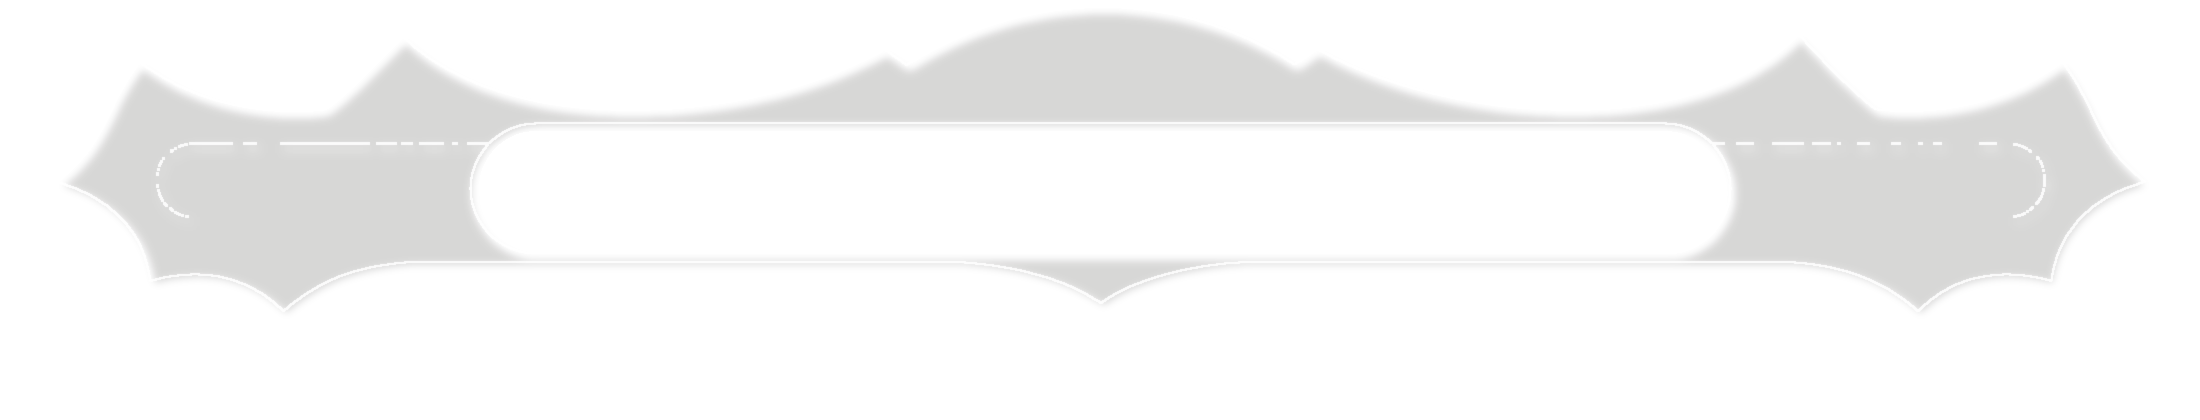
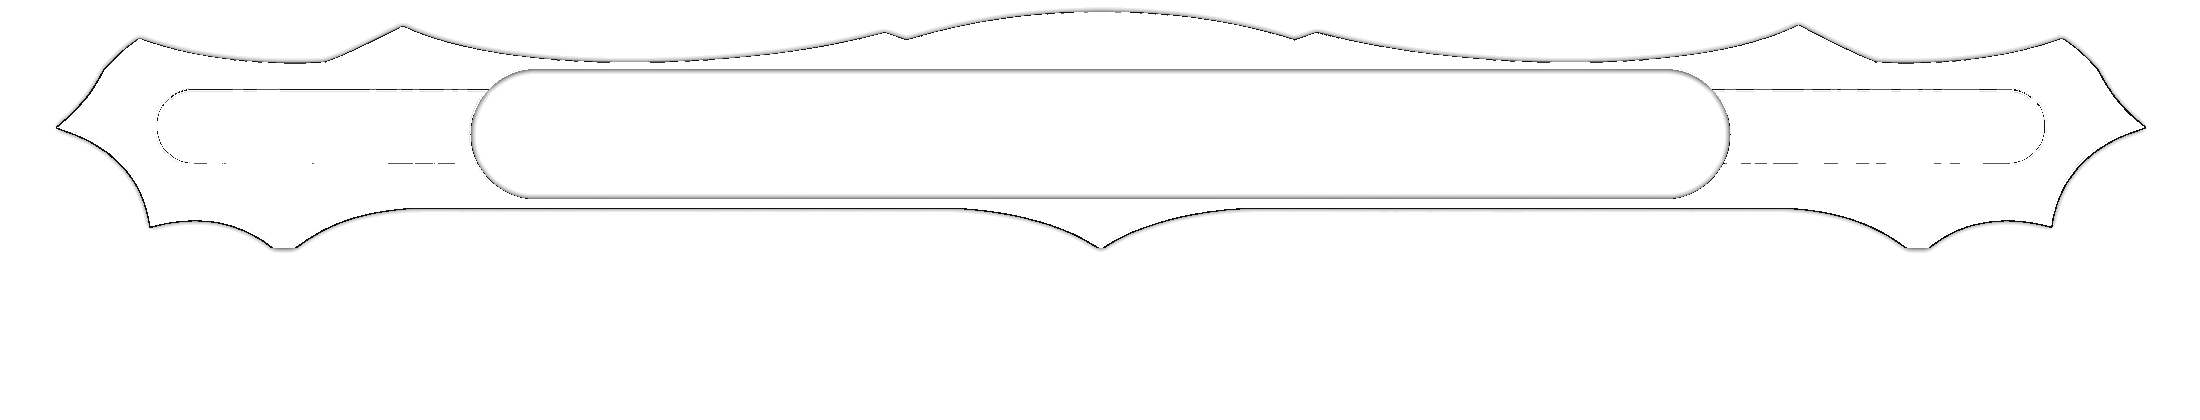
Fix crown seating, multiply tint, and shadow visibility.
Map the crown hole to the art-aligned nameplate with independent X/Y
scale, rebuild fills as near-white luminance maps so land/custom tints
actually recolor, and strengthen the stroke/drop shadow overlay.

diff --git a/src/authority/crownLayoutAuthority.ts b/src/authority/crownLayoutAuthority.ts
@@ -3,8 +3,8 @@
  * Crown PNGs sit behind the raised name plate (Showcase-style) and over art.
  *
  * Assets are authored so a transparent nameplate slot (~9.7:1) maps onto the
- * Modern outer plate 1260×130 (see CROWN_ASSET_*). Placement scales/positions
- * by that slot — never by the full canvas — so the plate sits in the hole.
+ * drawn nameplate outer (art-aligned when applicable). Placement scales X/Y
+ * independently so the hole matches the plate in both axes.
  */
 
 import { BEVEL_INSET, getStandardLayoutGeometry, type CardLayoutMode } from './geometryAuthority'
@@ -14,6 +14,16 @@ import {
   layoutRegionToStageRect,
 } from './layoutRegistry'
 import type { LayoutId } from './layoutTaxonomy'
+import { buildModernDummyStageRects } from './modernDummyLayoutAuthority'
+import {
+  type NameplateBoxShape,
+  resolveEffectiveNameplateShape,
+} from './nameplateShapeAuthority'
+import { resolveArtAlignedPlateOuterRect } from './plateArtAlignmentAuthority'
+import {
+  getPlaneswalkerModernV2ArtOuterRect,
+  PW_MODERN_V2_PLATE_RADIUS_MULTIPLIER,
+} from './planeswalkerModernV2LayoutAuthority'
 import { shouldShowCrownArmorSelectors } from './progressiveDisclosureAuthority'
 
 /** Authored crown canvas (Batch 1 remaster for Modern). */
@@ -22,9 +32,9 @@ export const CROWN_ASSET_CANVAS_H = 420
 
 /**
  * Transparent nameplate hole inside the crown canvas.
- * Authored ~9.7:1 to match Modern outer plate 1260×130 (width-lock placement).
+ * Authored ~9.7:1; runtime non-uniform scale maps it onto the drawn plate.
  */
-export const CROWN_ASSET_SLOT = { x: 471, y: 123, w: 1259, h: 130 } as const
+export const CROWN_ASSET_SLOT = { x: 471, y: 69, w: 1259, h: 130 } as const
 
 /** Near-white threshold for edge flood-fill knockout (ChatGPT assets ship on opaque white). */
 export const CROWN_WHITE_KEY_THRESHOLD = 245
@@ -56,10 +66,14 @@ function plateOuterFromInner(inner: { x: number; y: number; width: number; heigh
   }
 }
 
-/** Same outer nameplate rect FrameLayer uses for Modern / Borderless / Modern V2. */
+/**
+ * Drawn nameplate outer the crown hole must match — same art-aligned box as NamePlateLayer.
+ */
 export function resolveCrownNamePlateOuter(input: {
   layout: LayoutId
   currentLayout?: CardLayoutMode
+  bezierPlateEnabled?: boolean
+  nameBarShape?: NameplateBoxShape
 }): CrownStageRect | null {
   const caps = getActiveLayoutCapabilitiesFromState({
     currentLayout: input.currentLayout,
@@ -71,18 +85,58 @@ export function resolveCrownNamePlateOuter(input: {
     currentLayout: input.currentLayout,
     cardData: { layout: input.layout },
   })
+  const g = getStandardLayoutGeometry()
 
-  if (caps.supportsModernDummyLayout || caps.useLandFullArtManaCircle) {
-    return plateOuterFromInner(layoutRegionToStageRect(regions.nameBar))
+  let base: CrownStageRect
+  if (caps.supportsModernDummyLayout || caps.useLandFullArtManaCircle || caps.supportsSagaClassChrome) {
+    base = plateOuterFromInner(layoutRegionToStageRect(regions.nameBar))
+  } else {
+    base = { x: g.nameX, y: g.nameY, w: g.nameW, h: g.nameH }
   }
 
-  const g = getStandardLayoutGeometry()
-  return { x: g.nameX, y: g.nameY, w: g.nameW, h: g.nameH }
+  // Land full-art mana circle keeps contract outer (no art-column end caps).
+  if (caps.useLandFullArtManaCircle) return base
+
+  let artAperture: { x: number; width: number } | null = null
+  if (caps.supportsPlaneswalkerModernV2Layout) {
+    const art = getPlaneswalkerModernV2ArtOuterRect()
+    artAperture = { x: art.x, width: art.width }
+  } else if (caps.supportsSagaClassChrome) {
+    const nameInner = layoutRegionToStageRect(regions.nameBar)
+    artAperture = { x: nameInner.x, width: nameInner.width }
+  } else if (caps.supportsModernDummyLayout) {
+    const art = buildModernDummyStageRects().art
+    artAperture = {
+      x: art.x - BEVEL_INSET,
+      width: art.width + 2 * BEVEL_INSET,
+    }
+  } else {
+    artAperture = { x: g.artX, width: g.artW }
+  }
+
+  if (!artAperture) return base
+
+  const plateBarRadius = caps.supportsPlaneswalkerModernV2Layout
+    ? Math.round(g.barRadius * PW_MODERN_V2_PLATE_RADIUS_MULTIPLIER)
+    : g.barRadius
+  const shape = resolveEffectiveNameplateShape(
+    input.bezierPlateEnabled !== false,
+    input.nameBarShape ?? 'reverseBezierPlate',
+  )
+  const aligned = resolveArtAlignedPlateOuterRect({
+    artX: artAperture.x,
+    artW: artAperture.width,
+    plateY: base.y,
+    plateH: base.h,
+    shape,
+    barRadius: plateBarRadius,
+  })
+  return { x: aligned.x, y: aligned.y, w: aligned.width, h: aligned.height }
 }
 
 /**
  * Map crown image → stage so `slot` (in image px) lands exactly on `plate`.
- * Uniform scale from the tighter of width/height so the hole never undersizes the plate.
+ * Independent X/Y scale so art-aligned plates (wider than 1260) still fill the hole.
  */
 export function resolveCrownDrawRect(
   plate: CrownStageRect,
@@ -93,17 +147,14 @@ export function resolveCrownDrawRect(
   const nw = Math.max(1, naturalWidth)
   const nh = Math.max(1, naturalHeight)
   const sw = Math.max(1, slot.w)
-  // Prefer width lock (name length / plate width); allow slight vertical overshoot of slot vs plate.
-  const scale = plate.w / sw
-  const w = nw * scale
-  const h = nh * scale
-  const slotOnStageX = slot.x * scale
-  const slotOnStageY = slot.y * scale
+  const sh = Math.max(1, slot.h)
+  const scaleX = plate.w / sw
+  const scaleY = plate.h / sh
   return {
-    x: plate.x - slotOnStageX,
-    y: plate.y - slotOnStageY,
-    w,
-    h,
+    x: plate.x - slot.x * scaleX,
+    y: plate.y - slot.y * scaleY,
+    w: nw * scaleX,
+    h: nh * scaleY,
   }
 }
 

diff --git a/src/components/renderer/layers/CrownLayer.tsx b/src/components/renderer/layers/CrownLayer.tsx
@@ -7,6 +7,7 @@ import {
   shouldRenderNameplateCrown,
 } from '../../../authority/crownLayoutAuthority'
 import type { LayoutId } from '../../../authority/layoutTaxonomy'
+import type { NameplateBoxShape } from '../../../authority/nameplateShapeAuthority'
 import {
   normalizeHexColor,
   resolveCrownPublicUrl,
@@ -21,14 +22,17 @@ function parseHexRgb(hex: string): { r: number; g: number; b: number } | null {
   return { r: (v >> 16) & 255, g: (v >> 8) & 255, b: v & 255 }
 }
 
-/** Multiply-tint a crown fill (gold/white base) toward `tintHex`. */
+/**
+ * Multiply-tint a near-white crown fill toward `tintHex`.
+ * Gold-base assets made multiply a no-op vs default `#efc263` — white luminance fixes that.
+ */
 function tintCrownFill(source: HTMLImageElement, tintHex: string): HTMLCanvasElement {
   const w = Math.max(1, source.naturalWidth || source.width)
   const h = Math.max(1, source.naturalHeight || source.height)
   const canvas = document.createElement('canvas')
   canvas.width = w
   canvas.height = h
-  const ctx = canvas.getContext('2d')
+  const ctx = canvas.getContext('2d', { willReadFrequently: true })
   if (!ctx) return canvas
   ctx.drawImage(source, 0, 0, w, h)
   const rgb = parseHexRgb(tintHex)
@@ -49,6 +53,7 @@ function tintCrownFill(source: HTMLImageElement, tintHex: string): HTMLCanvasEle
 
 /**
  * Recolor shadow overlay: bright pixels stay light (stroke); dark pixels → shadow color.
+ * Soft low-alpha body pixels are boosted so the toggle is visibly different.
  */
 function tintCrownShadowOverlay(source: HTMLImageElement, shadowHex: string): HTMLCanvasElement {
   const w = Math.max(1, source.naturalWidth || source.width)
@@ -56,7 +61,7 @@ function tintCrownShadowOverlay(source: HTMLImageElement, shadowHex: string): HT
   const canvas = document.createElement('canvas')
   canvas.width = w
   canvas.height = h
-  const ctx = canvas.getContext('2d')
+  const ctx = canvas.getContext('2d', { willReadFrequently: true })
   if (!ctx) return canvas
   ctx.drawImage(source, 0, 0, w, h)
   const rgb = parseHexRgb(shadowHex)
@@ -69,14 +74,16 @@ function tintCrownShadowOverlay(source: HTMLImageElement, shadowHex: string): HT
     if (!a) continue
     const lum = (data[i] + data[i + 1] + data[i + 2]) / 3
     if (lum >= 160) {
-      // Light stroke — keep near-white (recolorable later if needed)
       data[i] = 255
       data[i + 1] = 255
       data[i + 2] = 255
+      data[i + 3] = Math.min(255, Math.max(a, 160))
     } else {
       data[i] = sr
       data[i + 1] = sg
       data[i + 2] = sb
+      // Ensure soft authored alphas still read as a shadow on tinted fill.
+      data[i + 3] = Math.min(255, Math.max(a, Math.round(a * 1.35 + 24)))
     }
   }
   ctx.putImageData(imageData, 0, 0)
@@ -105,6 +112,8 @@ function CrownLayer() {
     crownShadowColor,
     currentLayout,
     activeLayout,
+    bezierPlateEnabled,
+    nameBarShape,
   } = useCardStore(
     (s) => ({
       crownAssetId: s.cardData.crownAssetId,
@@ -113,6 +122,8 @@ function CrownLayer() {
       crownShadowColor: s.cardData.crownShadowColor,
       currentLayout: s.currentLayout,
       activeLayout: s.cardData.layout as LayoutId,
+      bezierPlateEnabled: s.cardData.bezierPlateEnabled,
+      nameBarShape: s.cardData.nameBarShape as NameplateBoxShape,
     }),
     shallow,
   )
@@ -181,9 +192,14 @@ function CrownLayer() {
   const plate = useMemo(
     () =>
       enabled
-        ? resolveCrownNamePlateOuter({ layout: activeLayout, currentLayout })
+        ? resolveCrownNamePlateOuter({
+            layout: activeLayout,
+            currentLayout,
+            bezierPlateEnabled: !!bezierPlateEnabled,
+            nameBarShape,
+          })
         : null,
-    [enabled, activeLayout, currentLayout],
+    [enabled, activeLayout, currentLayout, bezierPlateEnabled, nameBarShape],
   )
 
   const draw = useMemo(() => {
@@ -193,9 +209,27 @@ function CrownLayer() {
 
   if (!assetUrl || !tintedFill || !draw) return null
 
+  // Soft drop offset in stage px — keeps shadow readable under/around the fill.
+  const dropY = crownShadowEnabled ? Math.max(2, Math.round(draw.h * 0.012)) : 0
+  const dropX = crownShadowEnabled ? Math.max(1, Math.round(draw.w * 0.002)) : 0
+
   return (
     <Layer listening={false}>
+      {tintedShadow ? (
+        <Image
+          key={`crown-shadow-${crownAssetId}-${shadowHex}`}
+          image={tintedShadow}
+          x={draw.x + dropX}
+          y={draw.y + dropY}
+          width={draw.w}
+          height={draw.h}
+          listening={false}
+          imageSmoothingEnabled={true}
+          opacity={0.92}
+        />
+      ) : null}
       <Image
+        key={`crown-fill-${crownAssetId}-${tintHex}`}
         image={tintedFill}
         x={draw.x}
         y={draw.y}
@@ -206,6 +240,7 @@ function CrownLayer() {
       />
       {tintedShadow ? (
         <Image
+          key={`crown-stroke-${crownAssetId}-${shadowHex}`}
           image={tintedShadow}
           x={draw.x}
           y={draw.y}
@@ -213,6 +248,7 @@ function CrownLayer() {
           height={draw.h}
           listening={false}
           imageSmoothingEnabled={true}
+          opacity={0.55}
         />
       ) : null}
     </Layer>

diff --git a/src/data/crownOptions.ts b/src/data/crownOptions.ts
@@ -1,7 +1,8 @@
 /**
  * Bundled Crown options — served from `public/assets/crowns/`.
  * Drawn behind the Modern nameplate (Showcase-style crown).
- * Canvas 2200×420 with transparent slot ~1260×130 (see CROWN_ASSET_SLOT).
+ * Canvas 2200×420 with transparent slot ~1259×130 (see CROWN_ASSET_SLOT).
+ * Fill is a near-white luminance map for multiply land tints; `*-shadow.png` is stroke+soft drop.
  */
 
 export type CrownOption = {
